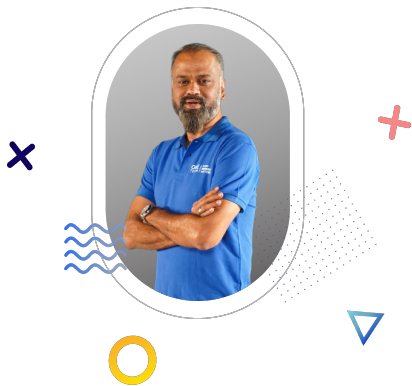
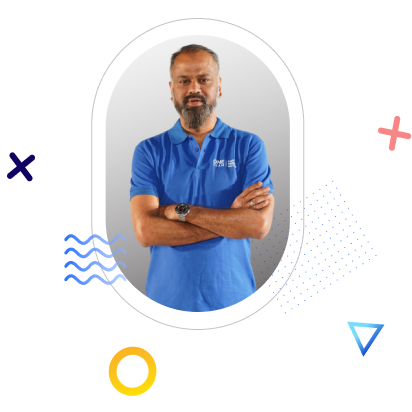
updated profile picture

diff --git a/css/responsive.css b/css/responsive.css
@@ -33,7 +33,8 @@
 }
 @media only screen and (min-width: 1920px) {
   .profile-card {
-    height: 810px !important;
+    /* height: 810px !important; */
+    height: 813px !important;
     width: auto !important;
   }
   .profile-brand {
@@ -48,7 +49,8 @@
   }
   .card-img {
     margin-left: 27px;
-    margin-top: 3px;
+    /* margin-top: 3px; */
+    margin-top: -17px;
     width: auto;
   }
   .card-content {
